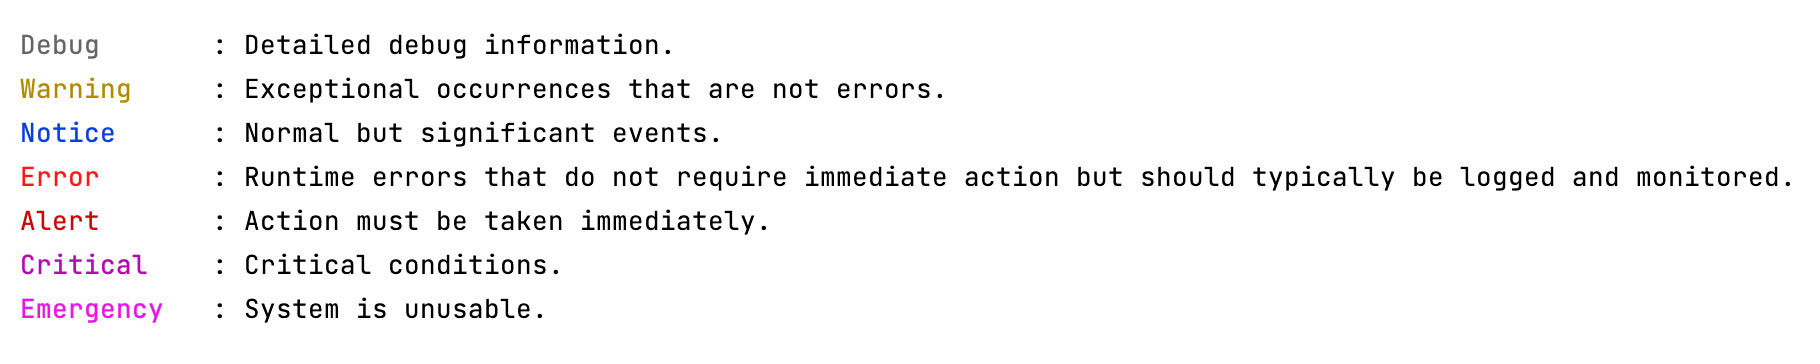
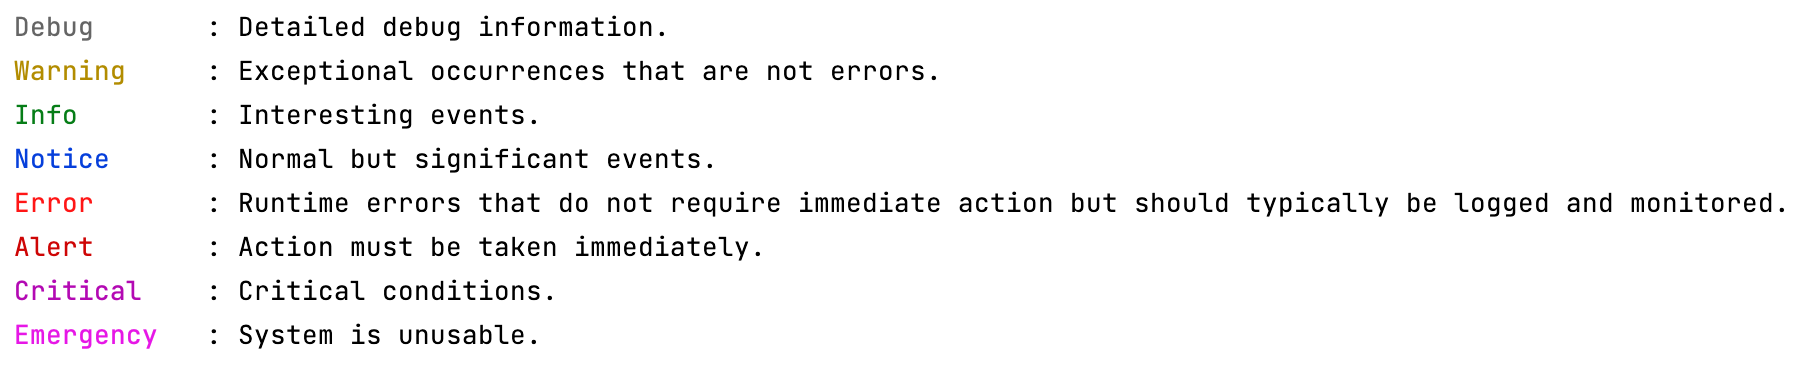
Add `info` to test and screenshot

Changed region(s): [[0.1243, 0.0302, 0.9945, 0.9066], [0.0, 0.0302, 0.0932, 0.9066]]

diff --git a/tests/ColorLoggerTest.php b/tests/ColorLoggerTest.php
@@ -19,6 +19,8 @@ class ColorLoggerTest extends TestCase
 
         $colorLogger->warning('Exceptional occurrences that are not errors.');
 
+        $colorLogger->info('Interesting events.');
+
         $colorLogger->notice('Normal but significant events.');
 
         $colorLogger->error('Runtime errors that do not require immediate action but should typically be logged and monitored.');
